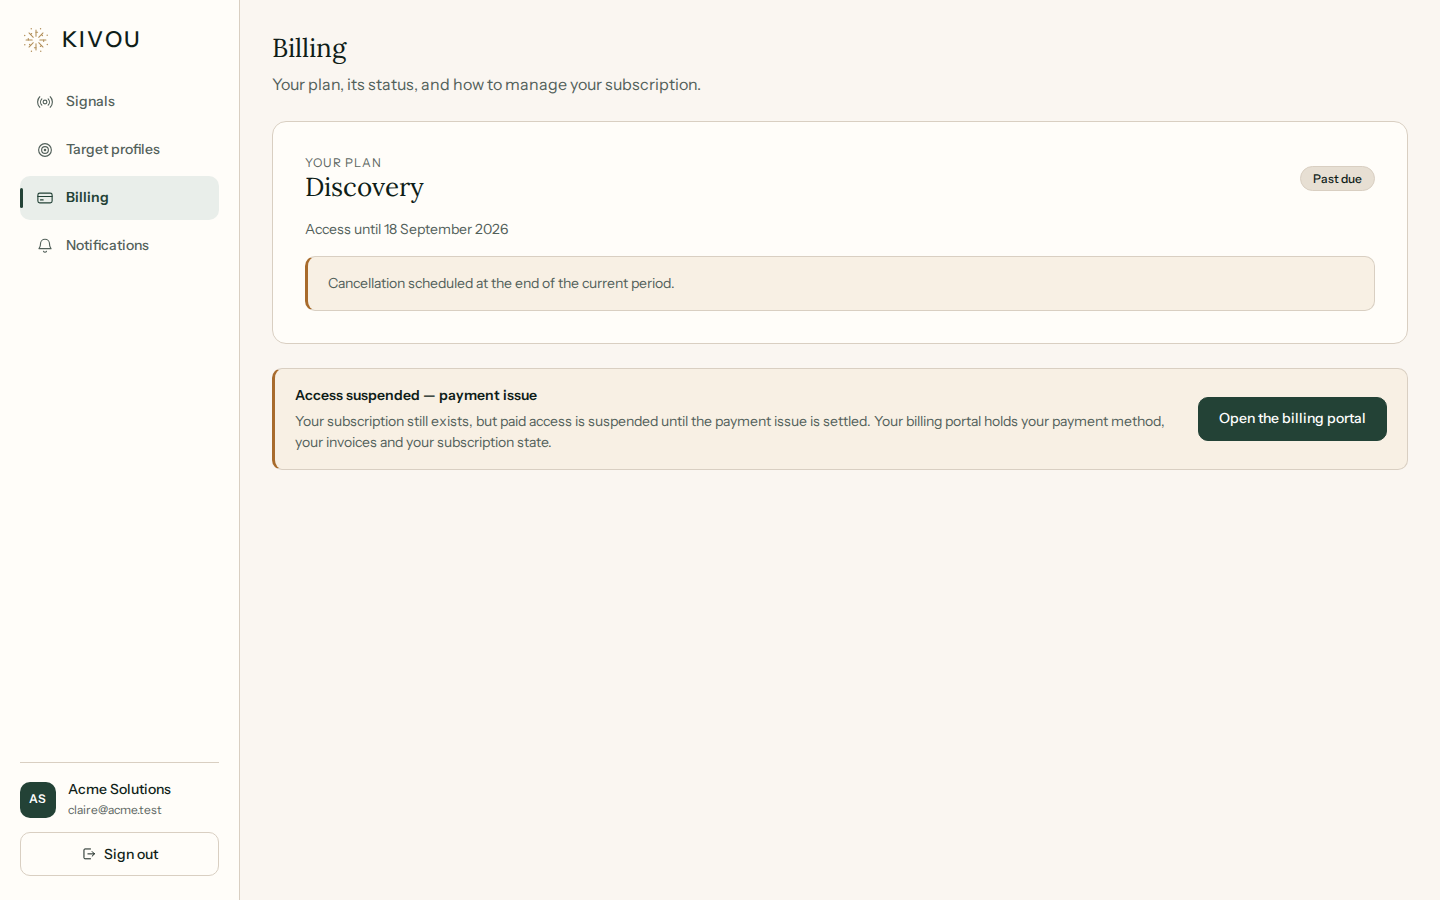
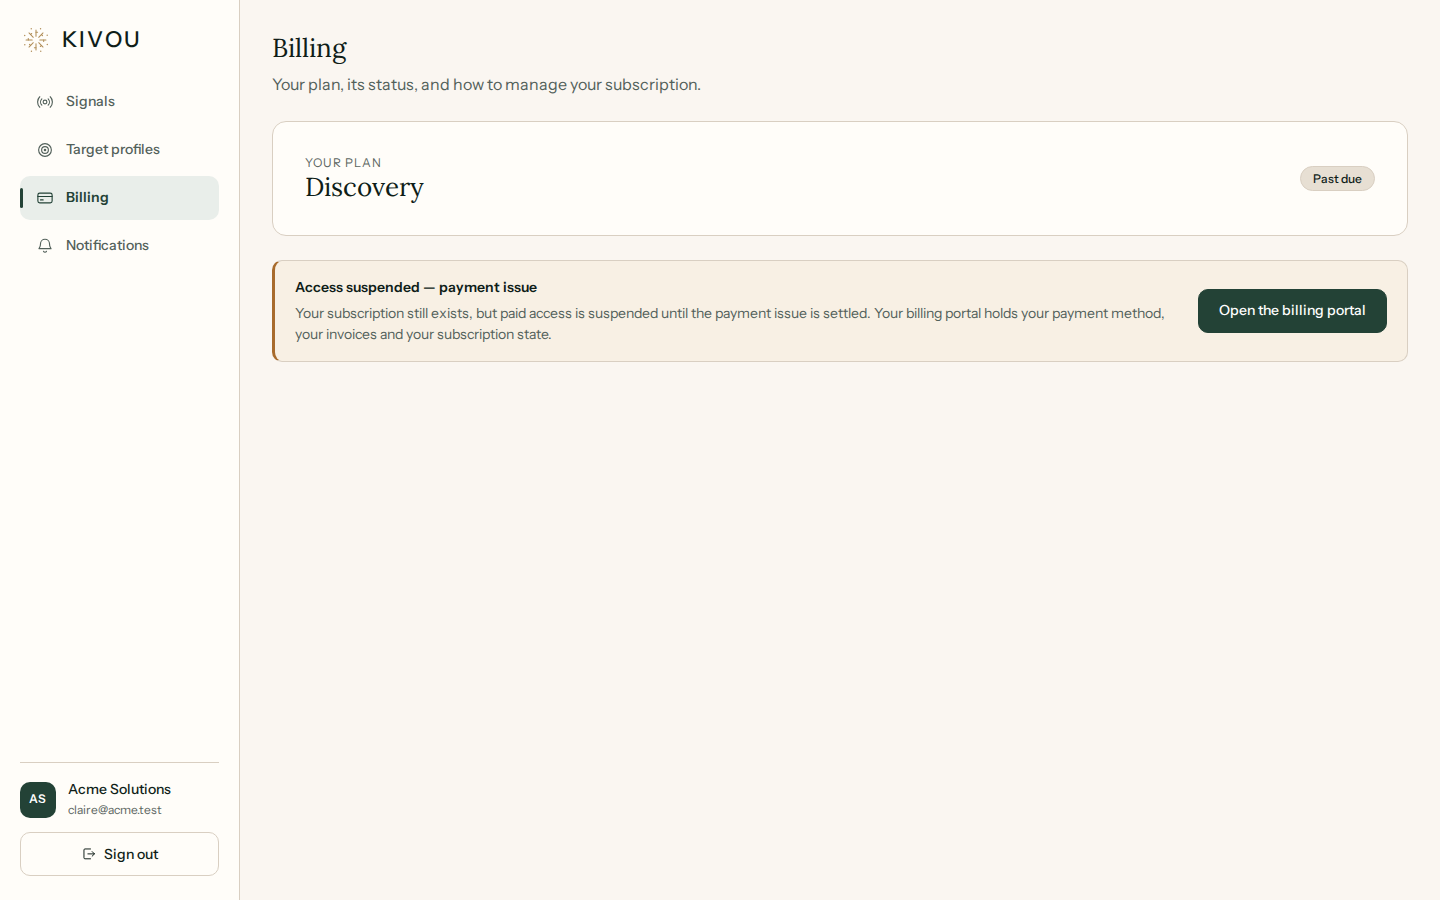
docs(web): refresh P0-03 visual eval
Vingt vues, sur un serveur de fixtures dont les scénarios sont désormais
réellement isolés.

    Ce que la campagne précédente cachait
    ─────────────────────────────────────
`cancelAtEnd` survivait d'un scénario à l'autre. La vue « résiliation
programmée » le laissait à 1, et la vue `recover_payment` suivante affichait
donc « Cancellation scheduled at the end of the current period » sur un compte
`past_due` dont l'accès était SUSPENDU — deux affirmations contradictoires,
dans une capture destinée à faire foi devant la supervision.

Ce défaut de fixture en a révélé un vrai, produit : la notice de résiliation
n'était gatée sur aucune action. Elle l'est maintenant.

`statusReads`, le compteur de sondage, vivait lui aussi hors de l'état
réinitialisé : laissé à sa valeur, il faisait confirmer un accès dès la
première lecture de la vue suivante.

    Ce qui garantit que cela ne revienne pas
    ────────────────────────────────────────
Les knobs vivent dans un `DEFAULTS` unique ; chaque `__scenario` fait un reset
complet avant d'appliquer les overrides. Un contrôle automatisé tourne AVANT
toute capture, salit délibérément les knobs, lance un scénario qui n'en
mentionne aucun, et interrompt la campagne si l'un survit.

Les contradictions d'état de facturation sont assertées, plus relues à l'œil :
« Résiliation programmée » et « Prochain renouvellement » sont interdits sur
toutes les vues `choose_plan`, `recover_payment` et `contact_support`.
[…]

Changed region(s): [[0.1875, 0.2489, 0.9688, 0.4044], [0.1875, 0.4356, 0.9688, 0.4978]]

diff --git a/docs/reports/p0-03-eval/README.md b/docs/reports/p0-03-eval/README.md
@@ -1,12 +1,12 @@
 # P0-03 — EVAL visuelle
 
-Dix-neuf vues du parcours de conversion payante et de récupération.
+Vingt vues du parcours de conversion payante et de récupération.
 
 | | |
 |---|---|
 | Branche | `feat/p0-03-paid-conversion` |
-| SHA des captures | `6b819b125cf1511c4176764f5ad4736eed408528` |
-| Base | `c0f1595db89508c90cc7348e939d299b88d45b44` |
+| SHA des captures | `576a26d16779e455bb1e8477bca698e1d4cd97d7` |
+| Base | `f7ee297` (`origin/main` après synchronisation) |
 | Environnement | build de production local (`npm run build`), servi sur **une seule origine** |
 | Navigateur | Chromium 151 (Playwright), `deviceScaleFactor: 1`, captures pleine page |
 
@@ -23,10 +23,50 @@ Chaque scénario asserte donc, **avant** la photo :
 - le CTA attendu ;
 - l'**absence** des CTA interdits.
 
-Une assertion ratée fait échouer la campagne. Elle en a déjà attrapé une : la
-vue « détail verrouillé » rendait un détail **ouvert**, parce que le serveur de
-fixtures servait le même objet pour toute clé. Aucune mesure géométrique
-n'aurait vu ce défaut.
+Une assertion ratée fait échouer la campagne. Elle a servi trois fois.
+
+**1 — la vue « détail verrouillé » rendait un détail OUVERT**, parce que le
+serveur de fixtures servait le même objet pour toute clé.
+
+**2 — `cancelAtEnd` fuyait d'un scénario à l'autre.** La vue « résiliation
+programmée » le laissait à 1, et la vue `recover_payment` suivante affichait
+donc « Cancellation scheduled at the end of the current period » sur un compte
+`past_due` dont l'accès était **suspendu** — deux affirmations contradictoires
+dans une capture destinée à faire foi devant la supervision. Le défaut a
+révélé un vrai défaut produit : la notice de résiliation n'était gatée sur
+aucune action. Elle l'est maintenant sur `manage_subscription`.
+
+**3 — `statusReads` vivait hors de l'état réinitialisé.** Ce compteur pilote la
+bascule de sondage ; laissé à sa valeur, il aurait fait confirmer un accès dès
+la première lecture de la vue suivante.
+
+Aucune mesure géométrique n'aurait vu l'un de ces trois défauts.
+
+## Isolation des scénarios
+
+Les knobs mutables vivent dans un objet `DEFAULTS` unique. Chaque appel à
+`__scenario` fait un **reset complet** — `Object.assign(state, DEFAULTS)` plus
+`statusReads = 0` — **avant** d'appliquer les overrides. Aucun état du scénario
+précédent ne survit.
+
+Un contrôle automatisé tourne **avant toute capture** et interrompt la
+campagne s'il échoue. Il salit délibérément les knobs, puis lance un scénario
+qui n'en mentionne aucun, et vérifie la remise à zéro de :
+
+```text
+cancelAtEnd · currentPeriodEnd · plan · billing_action · locale · statusReads
+```
+
+Sortie de la campagne :
+
+```text
+isolation des scénarios : ok (cancelAtEnd, currentPeriodEnd, plan, locale, statusReads)
+```
+
+Les contradictions d'état de facturation sont désormais **assertées**, pas
+relues à l'œil : « Résiliation programmée » et « Prochain renouvellement »
+figurent dans la liste des interdits de toutes les vues `choose_plan`,
+`recover_payment` et `contact_support`, en FR comme en EN.
 
 ## Ce que ces vues prouvent, et ce qu'elles ne prouvent pas
 
@@ -80,6 +120,7 @@ qu'elles ne sont pas exerçables.
 | Récupération | `billing-recover-payment-fr-320x800.png` | 320×800 | FR | reflow limite | idem | idem |
 | Récupération | `billing-recover-payment-en-1440x900.png` | 1440×900 | EN | `past_due` | Open the billing portal | Choose Pro, Advanced filters |
 | Vérification | `billing-contact-support-fr-1440x900.png` | 1440×900 | FR | `trialing` | contact@kivou.eu | Choisir, portail, `cus_`, `lookup` |
+| Statut inconnu | `billing-statut-inconnu-fr-1440x900.png` | 1440×900 | FR | statut hors dictionnaire | contact@kivou.eu | Choisir, portail, **la chaîne Stripe brute** |
 | Gestion | `billing-manage-pro-fr-1440x900.png` | 1440×900 | FR | Pro actif | Gérer ma facturation | **Choisir Pro**, Devise |
 | Résiliation programmée | `billing-cancel-at-period-end-fr-1440x900.png` | 1440×900 | FR | Pro, fin de période | Gérer ma facturation | Choisir Pro |
 
@@ -107,13 +148,15 @@ facturation → paiement ouvert → retour — parce que c'est le seul chemin qu
 ## Mesures
 
 ```text
-19 vues, toutes vérifiées en contenu ET en géométrie
+20 vues, toutes vérifiées en contenu ET en géométrie
 
-débordement horizontal .................... 0 / 19
-coupure de texte .......................... 0 / 19
+isolation des scénarios ................... ok (contrôle automatisé)
+débordement horizontal .................... 0 / 20
+coupure de texte .......................... 0 / 20
 titres h1 par vue ......................... 1 / 1 partout
-assertions de contenu ..................... 19 / 19 satisfaites
+assertions de contenu ..................... 20 / 20 satisfaites
 CTA interdits détectés .................... 0
+contradictions d'état de facturation ...... 0
 ```
 
 Le contrôle de coupure ignore les libellés `.kivou-visually-hidden`, rognés par
@@ -124,7 +167,10 @@ conception, et les éléments en `overflow: visible`, où rien ne peut être rog
 - un seul `h1` par écran ;
 - les quatre états de facturation portent un titre de callout explicite, jamais
   la seule couleur ;
-- le passage « vérification » → « accès actif » est annoncé par `aria-live` ;
+- une **région live persistante** (`role="status" aria-live="polite"`) porte le
+  texte d'état ; elle n'est jamais démontée, y compris au passage
+  « vérification » → « accès actif », car un lecteur d'écran n'annonce pas le
+  contenu d'une région qui vient de naître ;
 - le bouton de réessai est focusable et n'est actif qu'une fois le délai atteint ;
 - le contact support est un lien `mailto:`, pas un bouton — ce qui navigue est
   un `a` ;
